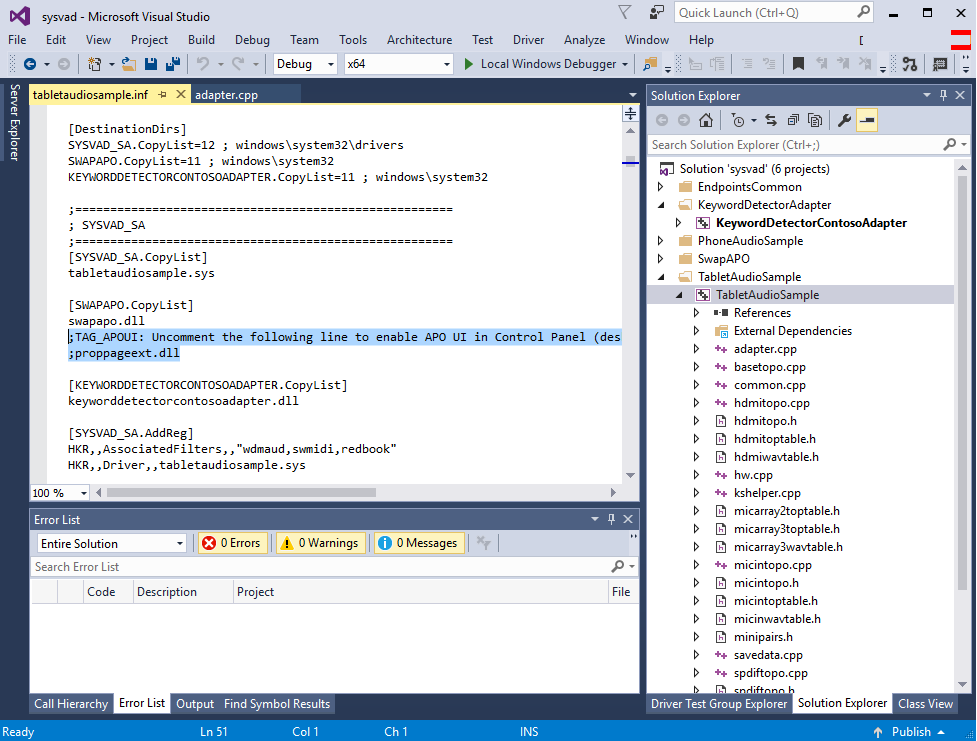
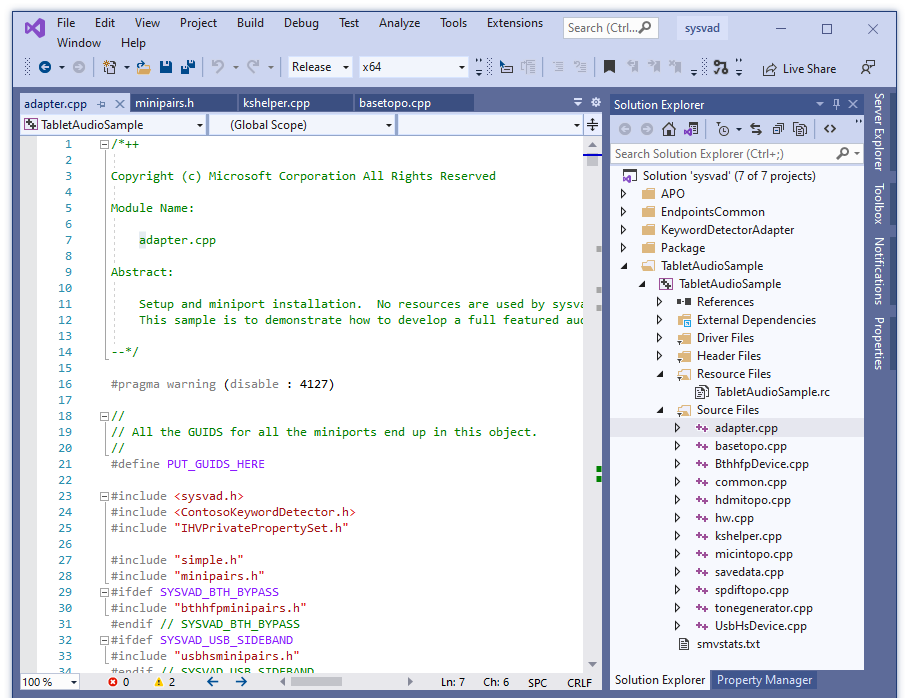
Jan doc fixes domars for various git issues (#959)
* Updates to reflect changes in Sysvad audio sample.

* Adding comment to adress customer git issue

* Adding comment to adress customer git issue

diff --git a/windows-driver-docs-pr/debugger/debug-universal-drivers--kernel-mode-.md b/windows-driver-docs-pr/debugger/debug-universal-drivers--kernel-mode-.md
@@ -2,7 +2,7 @@
 title: Debug Drivers - Step-by-Step Lab (Sysvad Kernel Mode)
 description: This lab provides hands-on exercises that demonstrate how to debug the Sysvad audio kernel-mode device driver.
 keywords: ["debug lab", "step-by-step", "SYSVAD"]
-ms.date: 07/20/2020
+ms.date: 01/20/2021
 ms.localizationpriority: medium
 ---
 
@@ -54,11 +54,9 @@ This lab walk you through the process of debugging a kernel-mode driver. The exe
 
 ## <span id="echo_driver_lab"></span>Echo driver lab
 
-
 The Echo driver is a simpler driver then the Sysvad audio driver. If you are new to WinDbg, you may want to consider first completing the [Debug Universal Drivers - Step-by-Step Lab (Echo kernel mode)](debug-universal-drivers---step-by-step-lab--echo-kernel-mode-.md). This lab reuses the setup directions from that lab, so if you have completed that lab you can skip sections 1 and 2 here.
 
 ## <span id="connectto"></span>Section 1: Connect to a kernel-mode WinDbg session
-
 
 *In Section 1, you will configure network debugging on the host and target system.*
 
@@ -283,7 +281,7 @@ fffff801`094d9000 fffff801`09561000   CI         (export symbols)       CI.dll
 
 **Note**  Output that has been omitted is indicated with "… " in this lab.
 
- 
+
 
 Because we have yet to set the symbol path and loaded symbols, limited information is available in the debugger.
 
@@ -300,7 +298,7 @@ To download and build the Sysvad sample audio driver, perform the following step
 
     You can use a browser to view the Sysvad sample and Readme.md file here:
 
-    [https://github.com/Microsoft/Windows-driver-samples/tree/master/audio/sysvad](https://github.com/Microsoft/Windows-driver-samples/blob/97cf5197cf5b882b2c689d8dc2b555f2edf8f418/general/echo/kmdf/ReadMe.md)
+    [https://github.com/Microsoft/Windows-driver-samples/tree/master/audio/sysvad](https://github.com/microsoft/Windows-driver-samples/tree/master/audio/sysvad)
 
     ![github repo showing general folder and download zip button](images/sysvad-lab-github.png)
 
@@ -320,13 +318,13 @@ To download and build the Sysvad sample audio driver, perform the following step
 
     In Visual Studio, select **File** &gt; **Open** &gt; **Project/Solution...** and navigate to the folder that contains the extracted files (for example, *C:\\WDK\_Samples\\Sysvad*). Double-click the *Syvad* solution file.
 
-    In Visual Studio locate the Solution Explorer. (If this is not already open, choose **Solution Explorer** from the **View** menu.) In Solution Explorer, you can see one solution that has a number of projects and what is included in the sample changes from time to time. 
+    In Visual Studio locate the Solution Explorer. (If this is not already open, choose **Solution Explorer** from the **View** menu.) In Solution Explorer, you can see one solution that has a number of projects. 
         
-    ![visual studio with the device.c file loaded from the sysvad project](images/sysvad-lab-visual-studio-solution.png)
+    ![visual studio with the adapter.cpp file loaded from the sysvad project](images/sysvad-lab-visual-studio-solution.png)
 
 3.  **Set the sample's configuration and platform**
 
-    In Solution Explorer, select and hold (or right-click) **Solution 'sysvad' (7 projects)**, and choose **Configuration Manager**. Make sure that the configuration and platform settings are the same for the four projects. By default, the configuration is set to "Win10 Debug", and the platform is set to "Win64" for all the projects. If you make any configuration and/or platform changes for one project, you must make the same changes for the remaining three projects.
+    In Solution Explorer, select and hold (or right-click) **Solution 'sysvad' (7 of 7 projects)**, and choose **Configuration Manager**. Make sure that the configuration and platform settings are the same for the four projects. By default, the configuration is set to "Win10 Debug", and the platform is set to "Win64" for all the projects. If you make any configuration and/or platform changes for one project, you must make the same changes for the remaining three projects.
 
     **Note**  This lab assumes that 64 bit Windows is being used. If you are using 32 bit Windows, build the driver for 32 bit.
 
@@ -348,7 +346,7 @@ To download and build the Sysvad sample audio driver, perform the following step
 
     Navigate to the folder that contains the built files for the TabletAudioSample driver:
 
-    *C:\\WDK\_Samples\\Sysvad\\TabletAudioSample\\x64\\Debug*. The folder will contain the TabletAudioSample .SYS driver, symbol pdp file and the inf file. You will also need to locate the SwapAPO, and KeywordDetectorContosoAdapter dlls and symbol files.
+    *C:\\WDK\_Samples\\Sysvad\\TabletAudioSample\\x64\\Debug*. The folder will contain the TabletAudioSample .SYS driver, symbol pdp file and the inf file. You will also need to locate the DelayAPO, KWSApo and KeywordDetectorContosoAdapter dlls and symbol files.
 
     To install the driver, you will need the following files.
 
@@ -357,10 +355,12 @@ To download and build the Sysvad sample audio driver, perform the following step
     | TabletAudioSample.sys             | The driver file.                                                                  |
     | TabletAudioSample.pdb             | The driver symbol file.                                                           |
     | tabletaudiosample.inf             | An information (INF) file that contains information needed to install the driver. |
-    | KeywordDetectorContosoAdapter.dl  | A sample keyword detector.                                                        |
+    | KeywordDetectorContosoAdapter.dll | A sample keyword detector.                                                        |
     | KeywordDetectorContosoAdapter.pdb | The sample keyword detector symbol file.                                          |
-    | lSwapAPO.dll                      | A sample driver extension for a UI to manage APOs.                                |
-    | lSwapAPO.pdb                      | The APO UI symbol file.                                                           |
+    | DelayAPO.dll                      | A sample delay APO.                                                               |
+    | DelayAPO.pdb                      | The delay APO symbol file.                                                        |
+    | KWSApo.dll                        | A sample keyword spotter APO.                                                     |
+    | KWSApo.pdb                        | The keyword spotter symbol file.                                                  |
     | TabletAudioSample.cer             | The TabletAudioSample certificate file.                                           |
 
      

diff --git a/windows-driver-docs-pr/audio/audio-universal-drivers.md b/windows-driver-docs-pr/audio/audio-universal-drivers.md
@@ -113,7 +113,6 @@ The traditional INF files continue to be available in the SYSVAD sample.
 | File name                      | Description                                                                    |
 |--------------------------------|--------------------------------------------------------------------------------|
 | tabletaudiosample.inf          | A desktop monolitic INF file that contains all of the information needed to install the driver. |
-| phoneaudiosample.inf           | A phone monolitic INF file that contains all of the information needed to install the driver.   |
 
 ### APO vendor specific tuning parameters and feature configuration
 
@@ -215,26 +214,3 @@ Follow these steps to install the driver using the PnpUtil on the target system.
 
 5. Locate an MP3 or other audio file on the target computer and double-click to play it. Then in the Sound dialog box, verify that there is activity in the volume level indicator associated with the Microsoft Virtual Audio Device (WDM) - Sysvad Sample driver.
 
-## Building the Sysvad Universal Audio Sample for Windows 10 Mobile
-
-Complete the following steps to build the sysvad sample for Windows 10 Mobile.
-
-1. Locate the Mobile inf file (phoneaudiosample.inf) and set the manufacturer name to a value such as "Contoso"
-
-2. Build the following projects in the sysvad solution:
-
-   - EndPointsCommon
-
-   - PhoneAudioSample
-
-3. Locate the output directory for the build from the . For example with a default location of Visual Studio in could be located in a directory like this:
-
-   ```cmd
-   C:\Program Files (x86)\Windows Kits\10\src\audio\sysvad\x64\Debug\package`
-   ```
-
-4. Follow the guidance in [Creating packages](/previous-versions/windows/hardware/packaging/dn756642(v=vs.85)) to create a package that contains the driver files for a mobile image.
-
-5. To install a mobile driver package (.spkg file), you will need to combine packages into a mobile OS image. Use ImgGen to add the .spkg driver package to a full flash update (FFU) image that can then be flashed to a mobile device. It may be necessary to remove other audio drivers that exist in the mobile image to allow for testing of the sysvad virtual audio driver.
-
-6. After the OS image contains the driver package is running, play a sound clip and validate that the sysvad phone audio sample is functional. You can establish a kernel debugger connection to monitor the sysvad virtual driver on a mobile device.

diff --git a/windows-driver-docs-pr/debugger/debug-universal-drivers---step-by-step-lab--echo-kernel-mode-.md b/windows-driver-docs-pr/debugger/debug-universal-drivers---step-by-step-lab--echo-kernel-mode-.md
@@ -2,7 +2,7 @@
 title: Debug Windows Drivers - Step-by-Step Lab (Echo Kernel Mode)
 description: This lab introduces the WinDbg kernel debugger. WinDbg is used to debug the echo kernel mode sample driver code.
 keywords: ["debug lab", "step-by-step", "ECHO"]
-ms.date: 07/20/2020
+ms.date: 01/20/2021
 ms.localizationpriority: medium
 ---
 
@@ -331,11 +331,11 @@ To download and build the Echo sample audio driver, perform the following steps.
 
     You can use a browser to view the echo sample in GitHub here:
 
-    [https://github.com/Microsoft/Windows-driver-samples/tree/97cf5197cf5b882b2c689d8dc2b555f2edf8f418/general/echo/kmdf](https://github.com/Microsoft/Windows-driver-samples/blob/97cf5197cf5b882b2c689d8dc2b555f2edf8f418/general/echo/kmdf/ReadMe.md)
+    [https://github.com/Microsoft/Windows-driver-samples/tree/master/general/echo/kmdf](https://github.com/Microsoft/Windows-driver-samples/tree/master/general/echo/kmdf/)
 
     You can read about the sample here:
 
-    <https://github.com/Microsoft/Windows-driver-samples/blob/97cf5197cf5b882b2c689d8dc2b555f2edf8f418/general/echo/kmdf/ReadMe.md>
+    <https://github.com/Microsoft/Windows-driver-samples/tree/master/general/echo/kmdf/ReadMe.md>
 
     You can browse all of the Windows driver samples here:
 

diff --git a/windows-driver-docs-pr/audio/sample-audio-drivers.md b/windows-driver-docs-pr/audio/sample-audio-drivers.md
@@ -34,10 +34,6 @@ The *sysvad* solution file contains the following projects.
 
     The *TabletAudioSample* project demonstrates how to develop a WDM audio driver that exposes support for multiple audio devices. Some of these audio devices are embedded (speakers, mic arrays) in the system while others are pluggable (headphone speaker/mic, Bluetooth headsets speaker/mic). The driver uses WaveRT and audio offloading for rendering devices. The driver uses a "virtual audio device" instead of an actual hardware-based adapter and highlights the different aspects of the audio offloading WDM audio driver architecture. For more information about the Windows audio engine, see [Hardware-Offloaded Audio Processing (Windows Drivers)](hardware-offloaded-audio-processing.md).
 
--   **PhoneAudioSample**
-
-    The *PhoneAudioSample* project is very similar to the *TabletAudioSample* project. It includes optimizations for mobile devices.
-
 -   **EndpointsCommon**
 
     The *EndpointsCommon* project contains common code to both the tablet and phone. For more information, see [Universal Windows Drivers for Audio](audio-universal-drivers.md).

diff --git a/windows-driver-docs-pr/audio/voice-activation-mva.md b/windows-driver-docs-pr/audio/voice-activation-mva.md
@@ -94,7 +94,7 @@ Validate HW support for [KSPROPSETID_SoundDetector2](kspropsetid-sounddetector2.
 
 ## Sample Code Overview
 
-There is sample code for an audio driver that implements voice activation on GitHub as part of the SYSVAD virtual audio adapter sample. It is recommended to use [this code](https://github.com/Microsoft/Windows-driver-samples/blob/master/audio/sysvad/) as a starting point.
+There is sample code for an audio driver that implements voice activation on GitHub as part of the SYSVAD virtual audio adapter sample. It is recommended to use [this code](https://github.com/Microsoft/Windows-driver-samples/tree/master/audio/sysvad/) as a starting point.
 
 For more information about the SYSVAD sample audio driver, see [Sample Audio Drivers](./sample-audio-drivers.md).
 

diff --git a/windows-driver-docs-pr/debugger/setting-up-network-debugging-of-a-virtual-machine-host.md b/windows-driver-docs-pr/debugger/setting-up-network-debugging-of-a-virtual-machine-host.md
@@ -1,7 +1,7 @@
 ---
 title: Setting Up Network Debugging of a Virtual Machine with KDNET
 description: This topic describes how to configure a kernel debugging connection to a Hyper-V virtual machine.
-ms.date: 09/21/2020
+ms.date: 01/21/2021
 ms.localizationpriority: medium
 ---
 
@@ -156,6 +156,9 @@ Once the debugger is connected, reboot the target computer. To force the VM to c
 When the target virtual machine is restarted, the debugger in the host OS should connect. 
 
 After connecting to the VM, hit break on your debugger and you can start debugging. 
+
+To support the debugging connection a Kernel Debug Network Adapter is added and visible in network properties, after the VM is rebooted.
+
 
 ## Troubleshooting KDNET Virtual Machine Network Debugging
 

diff --git a/windows-driver-docs-pr/audio/voice-activation.md b/windows-driver-docs-pr/audio/voice-activation.md
@@ -118,7 +118,7 @@ AEC Requirements for HW KWS
 
 There is sample code for an audio driver that implements voice activation on GitHub as part of the SYSVAD virtual audio adapter sample. It is recommended to use this code as a starting point. The code is available at this location.
 
-<https://github.com/Microsoft/Windows-driver-samples/blob/master/audio/sysvad/>
+<https://github.com/Microsoft/Windows-driver-samples/tree/master/audio/sysvad/>
 
 For more information about the SYSVAD sample audio driver, see [Sample Audio Drivers](sample-audio-drivers.md).
 

diff --git a/windows-driver-docs-pr/audio/implementing-audio-processing-objects.md b/windows-driver-docs-pr/audio/implementing-audio-processing-objects.md
@@ -98,7 +98,6 @@ The other projects in the Sysvad sample are summarized below.
 
 |**Project**|**Description**|
 |----|----|
-| PhoneAudioSample       | Sample code for a mobile audio driver.     |
 | TabletAudioSample      | Sample code for an alternate audio driver. |
 | KeywordDetectorAdapter | Sample code for a keyword detector adapter |
 | EndpointsCommon        | Sample code for common endpoints.          |
